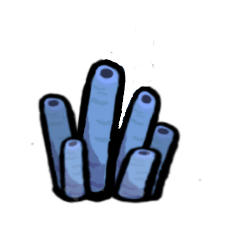
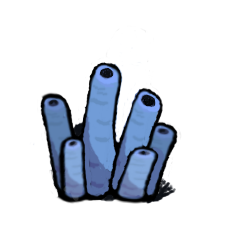
Skyflies bugfix and misc bugfixes and changes.

diff --git a/TODO_ART.md b/TODO_ART.md
@@ -1,12 +1,15 @@
 # TODO for Up and Away art
 
 ### Overhauls / Variants (low priority by nature):
-+ Tea Bush
++ Tea Bush?
 + Thunder Tree (Currently an atlas swap of spiked tree)
-+ Variants of Bean huts.
-+ Crystals should be more varied in their design, eventually.
-+ Weaver Nest redesign.
-+ Sunflower redesign.
++ Bean Huts (Need variety in shape/design)
++ Crystals (Need variety in shape/design)
++ Weaver Nest (Total redesign. More like trees, the trees grow the nests like fruit.)
++ Sunflower (Total redesign) -- In progress.
++ Algae (Total redesign)
++ Coral (Adjustment and/or redesign)
++ Dragonblood Log (Adjustment and/or redesign)
 
 ### Inventory images in need of attention, in order of priority.
 + Various Potion Types -- Vivalavie was working on these last I checked.

diff --git a/TODO.md b/TODO.md
@@ -13,6 +13,7 @@ Current Development Phase: Horrors in the Sky
 	+ Quartz Torch placable into quartz lamps, givable to entities to increase reputation with that faction.
 	+ Rubber trees that gnomes worship. 
 	+ Meat wall. Max level monstermeat wall has attacks.
+	+ Cloud coral should grow back over time, as well as starting at different states.
 
 + **Current bugs:**
 
